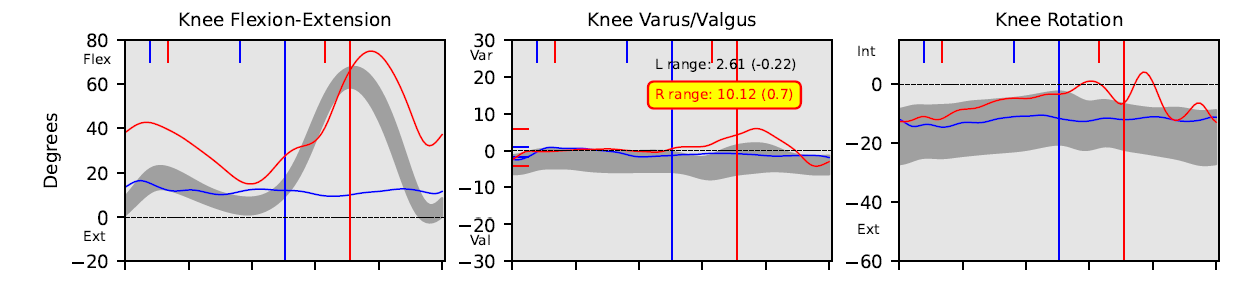
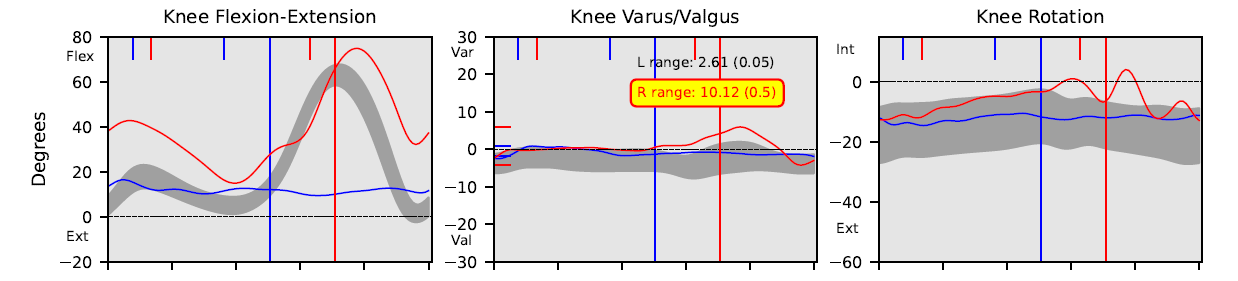
Updated cross-talk figure and changed corr to r^2

Changed region(s): [[0.0307, 0.0285, 0.9822, 0.968]]

diff --git a/SGMreportGenerator_v3.0.3.py b/SGMreportGenerator_v3.0.3.py
@@ -940,7 +940,7 @@ def plot_Data(self, plot_type, page_settings, is_EMG):
                                 valg_max = round(max(valg_curve[kf_max:kf_min+1]), 2)
                                 valg_range = round(valg_max - valg_min, 2)
                                 text_color = 'k'
-                                correlation = round(np.corrcoef(knee_curve, valg_curve)[0, 1],2)
+                                correlation = round(np.corrcoef(knee_curve, valg_curve)[0, 1]**2,2)
                                 
                                 # print(f'valg range is: {valg_range}')
                                 x_pos = 45 # as % gait cycle
